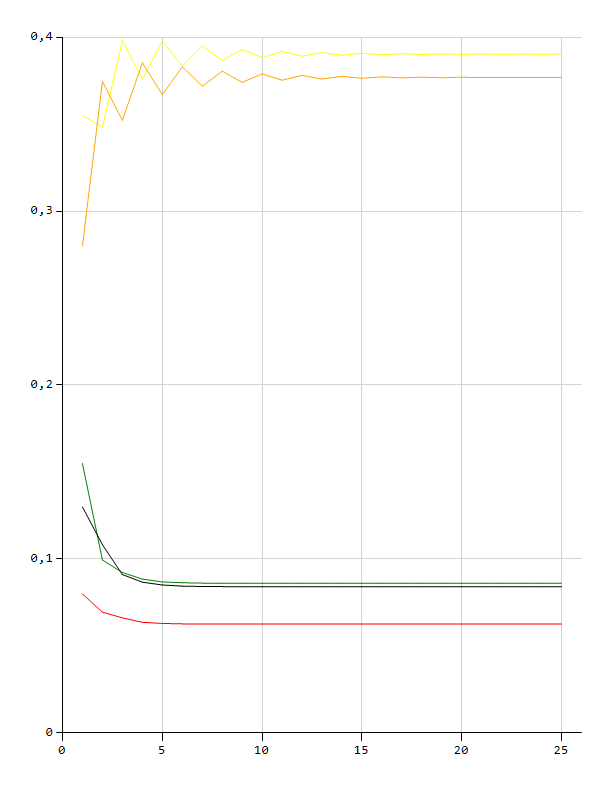
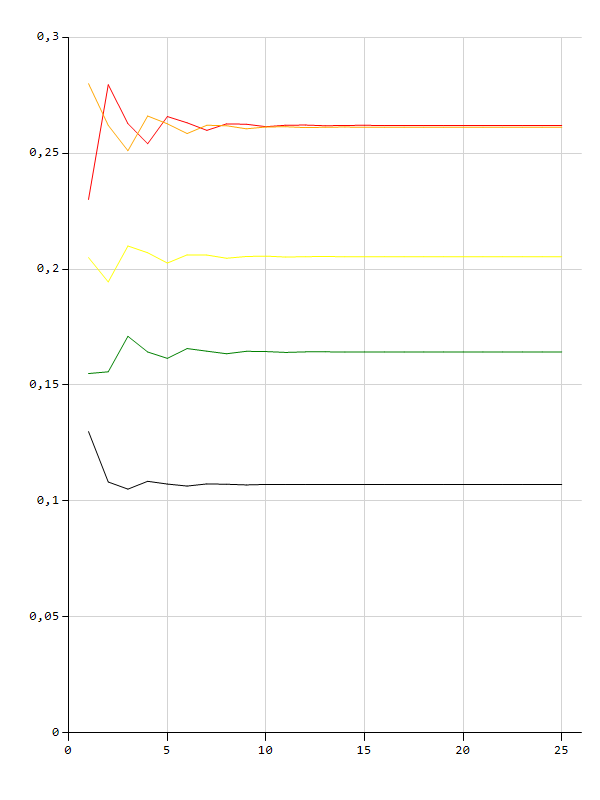
no koniec

diff --git a/AnalizaAlgorytmow/AnalizaAlgorytmów/L4PageRank/Program.cs b/AnalizaAlgorytmow/AnalizaAlgorytmów/L4PageRank/Program.cs
@@ -12,21 +12,81 @@ using MathNet.Numerics.LinearAlgebra.Complex;
 
 namespace L4PageRank
 {
+    public class Graph
+    {
+        public double X { get; set; }
+        public double Step { get; set; }
+        public double Hold { get; set; }
+    }
     class Program
     {
         static void Main(string[] args)
         {
             // Zadanie1();
-            Zadanie2();
+            //Zadanie2();
             //Zadanie3();
-            //Zadanie4();
+            Zadanie4();
 
         }
         // 5 13 21
 
+        public static void Zadanie4cel(double mi, double la, int test)
+        {
+            var algo = new ProstaKolejka();
+            var results = new List<List<Graph>>();
+
+            for(int i =0; i<test; i++)
+            {
+                results.Add(new List<Graph>());
+                var dane = algo.Test(mi, la);
+                
+                for(int j = 0; j < dane.Count; j++)
+                {
+                    results[i].Add(new Graph
+                    {
+                        X = j,
+                        Step = dane[j].Steps.Count == 0 ? 10000 : dane[j].Steps.Average(),
+                        Hold = dane[j].Count
+                    });
+                }
+            }
+
+            var max = results.Max(x => x.Count);
+
+            var res = new List<Graph>();
+            for (int i = 0; i < max; i++)
+            {
+                res.Add(new Graph
+                {
+                    X = i
+                });
+                for (int j = 0; j < test; j++)
+                {
+                    if (results[j].Count > i)
+                    {
+                        res[i].Step += results[j][i].Step;
+                        res[i].Hold += results[j][i].Hold;
+                    }
+                }
+                res[i].Step /= test;
+                res[i].Hold /= test;
+            }
+            var graph = new GraphGenerator(600, 800);
+            graph.AddSeries($"series{0}", SeriesChartType.Line, Enumerable.Range(0, res.Count).Select(x => (double)x).ToList(), res.Select(x=>x.Hold).ToList(), Color.Red);
+            graph.AddSeries($"series{1}", SeriesChartType.Line, Enumerable.Range(0, res.Count).Select(x => (double)x).ToList(), res.Select(x => x.Step).ToList(), Color.Green);
+            graph.SaveGraph($"prosta kolejka mi{mi} lambda{la}");
+        }
+
+
 
         public static void Zadanie4()
         {
+            var test = 1000;
+            Zadanie4cel(0.1, 0.2, test);
+            Zadanie4cel(0.2, 0.2, test);
+            Zadanie4cel(0.2, 0.1, test);
+
+            /*
             var algo = new ProstaKolejka();
             var steps0 = new List<double>();
             var steps1 = new List<double>();
@@ -35,40 +95,67 @@ namespace L4PageRank
             var hold0 = new List<double>();
             var hold1 = new List<double>();
             var hold2 = new List<double>();
-            for (int i = 0; i < 100; i++)
-            {
-                var t1 = algo.Test(0.2, 0.1);
-                var t2 = algo.Test(0.2, 0.2);
-                var t3 = algo.Test(0.1, 0.2);
-                steps0.Add(t1.Average(x => x.Steps.Sum()));
-                steps1.Add(t2.Average(x => x.Steps.Sum()));
-                steps2.Add(t3.Average(x => x.Steps.Sum()));
-                hold0.Add(t1.Average(x => x.Count));
-                hold1.Add(t2.Average(x => x.Count));
-                hold2.Add(t3.Average(x => x.Count));
-            }
-           
+            var t1 = algo.Test(0.2, 0.1);
+            var t2 = algo.Test(0.2, 0.2);
+            var t3 = algo.Test(0.1, 0.2);
+
+            steps0 = t1.Select(x => (double)x.Steps.Average()).ToList();
+            steps1 = t2.Select(x => (double)x.Steps.Average()).ToList();
+            steps2 = t3.Select(x => (double)x.Steps.Average()).ToList();
+
+            hold0 = t1.Select(x => (double)x.Count).ToList();
+            hold1 = t2.Select(x => (double)x.Count).ToList();
+            hold2 = t3.Select(x => (double)x.Count).ToList();
 
 
-            Console.WriteLine($@"Srednia ilosc krokow 0.2 0.1 {steps0.Average()}");
-            Console.WriteLine($@"Srednia ilosc krokow 0.2 0.2 {steps1.Average()}");
-            Console.WriteLine($@"Srednia ilosc krokow 0.1 0.2 {steps2.Average()}");
 
-            Console.WriteLine($@"Srednie przebywanie w jednym stanie  0.2 0.1 {hold0.Average()}");
-            Console.WriteLine($@"Srednie przebywanie w jednym stanie  0.2 0.2 {hold1.Average()}");
-            Console.WriteLine($@"Srednie przebywanie w jednym stanie  0.1 0.2 {hold2.Average()}");
+            var graph = new GraphGenerator(600, 800);
+            graph.AddSeries($"series{0}", SeriesChartType.Line, Enumerable.Range(0, hold0.Count).Select(x => (double)x).ToList(), hold0, Color.Red);
+            graph.AddSeries($"series{1}", SeriesChartType.Line, Enumerable.Range(0, steps0.Count).Select(x => (double)x).ToList(), steps0, Color.Green);
+            graph.SaveGraph($"zadanko {0}");
 
+            graph = new GraphGenerator(600, 800);
+            graph.AddSeries($"series{0}", SeriesChartType.Line, Enumerable.Range(0, hold1.Count).Select(x => (double)x).ToList(), hold1, Color.Red);
+            graph.AddSeries($"series{1}", SeriesChartType.Line, Enumerable.Range(0, steps1.Count).Select(x => (double)x).ToList(), steps1, Color.Green);
+            graph.SaveGraph($"zadanko {1}");
+
+            graph = new GraphGenerator(600, 800);
+            graph.AddSeries($"series{0}", SeriesChartType.Line, Enumerable.Range(0, hold2.Count).Select(x => (double)x).ToList(), hold2, Color.Red);
+            graph.AddSeries($"series{1}", SeriesChartType.Line, Enumerable.Range(0, steps2.Count).Select(x => (double)x).ToList(), steps2, Color.Green);
+            graph.SaveGraph($"zadanko {2}");
+
+            //Console.WriteLine($@"Srednia ilosc krokow 0.2 0.1 {steps0.Average()}");
+            //Console.WriteLine($@"Srednia ilosc krokow 0.2 0.2 {steps1.Average()}");
+            //Console.WriteLine($@"Srednia ilosc krokow 0.1 0.2 {steps2.Average()}");
+
+            //Console.WriteLine($@"Srednie przebywanie w jednym stanie  0.2 0.1 {hold0.Average()}");
+            //Console.WriteLine($@"Srednie przebywanie w jednym stanie  0.2 0.2 {hold1.Average()}");
+            //Console.WriteLine($@"Srednie przebywanie w jednym stanie  0.1 0.2 {hold2.Average()}");
+            */
 
         }
 
         public static void Zadanie3()
         {
             var n = 5;
-            var Ng = Matrix<double>.Build.Dense(n, n, 0);
+            var Ng = Matrix<double>.Build.Dense(n, n, 0.0);
+
+
             Ng[0, 1] = Ng[0, 2] = 0.5;
             Ng[2, 1] = Ng[2, 3] = Ng[2, 4] = 1.0 / 3.0;
-            Ng[1, 3] = Ng[3, 1] = 1;
+            Ng[1, 3] = Ng[3, 0] = 1.0;
             Ng[4, 0] = Ng[4, 1] = Ng[4, 2] = Ng[4, 3] = Ng[4, 4] = 1.0 / n;
+
+            for (int i = 0; i < Ng.RowCount; i++)
+            {
+                for (int j = 0; j < Ng.RowCount; j++)
+                {
+                    Console.Write($"{Math.Round(Ng[i, j], 4)}\t");
+                }
+                Console.WriteLine();
+            }
+
+
             var pi = Vector<double>.Build.Dense(n, 1.0 / n);
             //var tempPi = pi;
             var alfa = new[] {0.0, 0.25, 0.5, 0.75, 0.85, 1.0}.ToList();
@@ -81,27 +168,18 @@ namespace L4PageRank
                 var l3 = new List<double>();
                 var l4 = new List<double>();
                 Console.WriteLine($"Alfa = {a}");
+                var mac = (((1.0 - a) * Ng) + (a * (1.0 / n)));
+                var temp = mac.Clone();
+
                 for (int k = 0; k < 25; k++)
-                {
-                    var mac = (((1.0 - a) * Ng) + (a * (1.0 / n)));
-                    var test = mac;
-
-                    for (int i = 0; i < k; i++)
-                        test = mac * test;
-                    //mac = mac.Power(k + 1);
-
-                    var tempPi =pi * test;
+                { 
+                    var tempPi = temp.Transpose() * pi;
                     l0.Add(tempPi[0]);
                     l1.Add(tempPi[1]);
                     l2.Add(tempPi[2]);
                     l3.Add(tempPi[3]);
                     l4.Add(tempPi[4]);
-                    Console.WriteLine($"Wartosci dla i = {k+1}");
-                    for (int j = 0; j < n; j++)
-                    {
-                        Console.Write($"{Math.Round(tempPi[j],4)}\t");
-                    }
-                    Console.WriteLine();
+                    temp = mac * temp;
                 }
 
                 var graph = new GraphGenerator(600, 800);
@@ -112,10 +190,6 @@ namespace L4PageRank
                 graph.AddSeries($"series{4}", SeriesChartType.Line, Enumerable.Range(1, 25).Select(x => (double)x).ToList(), l4, Color.Black);
                 graph.SaveGraph($"zadanko alpha{a}");
             });
-
-
-
-
         }
 
 

diff --git a/AnalizaAlgorytmow/AnalizaAlgorytmów/L4PageRank/ProstaKolejka.cs b/AnalizaAlgorytmow/AnalizaAlgorytmów/L4PageRank/ProstaKolejka.cs
@@ -24,10 +24,8 @@ namespace L4PageRank
 
         public void Enter(int i)
         {
-            if (LastStep + 1 != i)
-               Steps.Add(i - LastStep);
-            else
-                Count++;
+            Steps.Add(i - LastStep);
+            Count++;
             LastStep = i;
         }
     }
